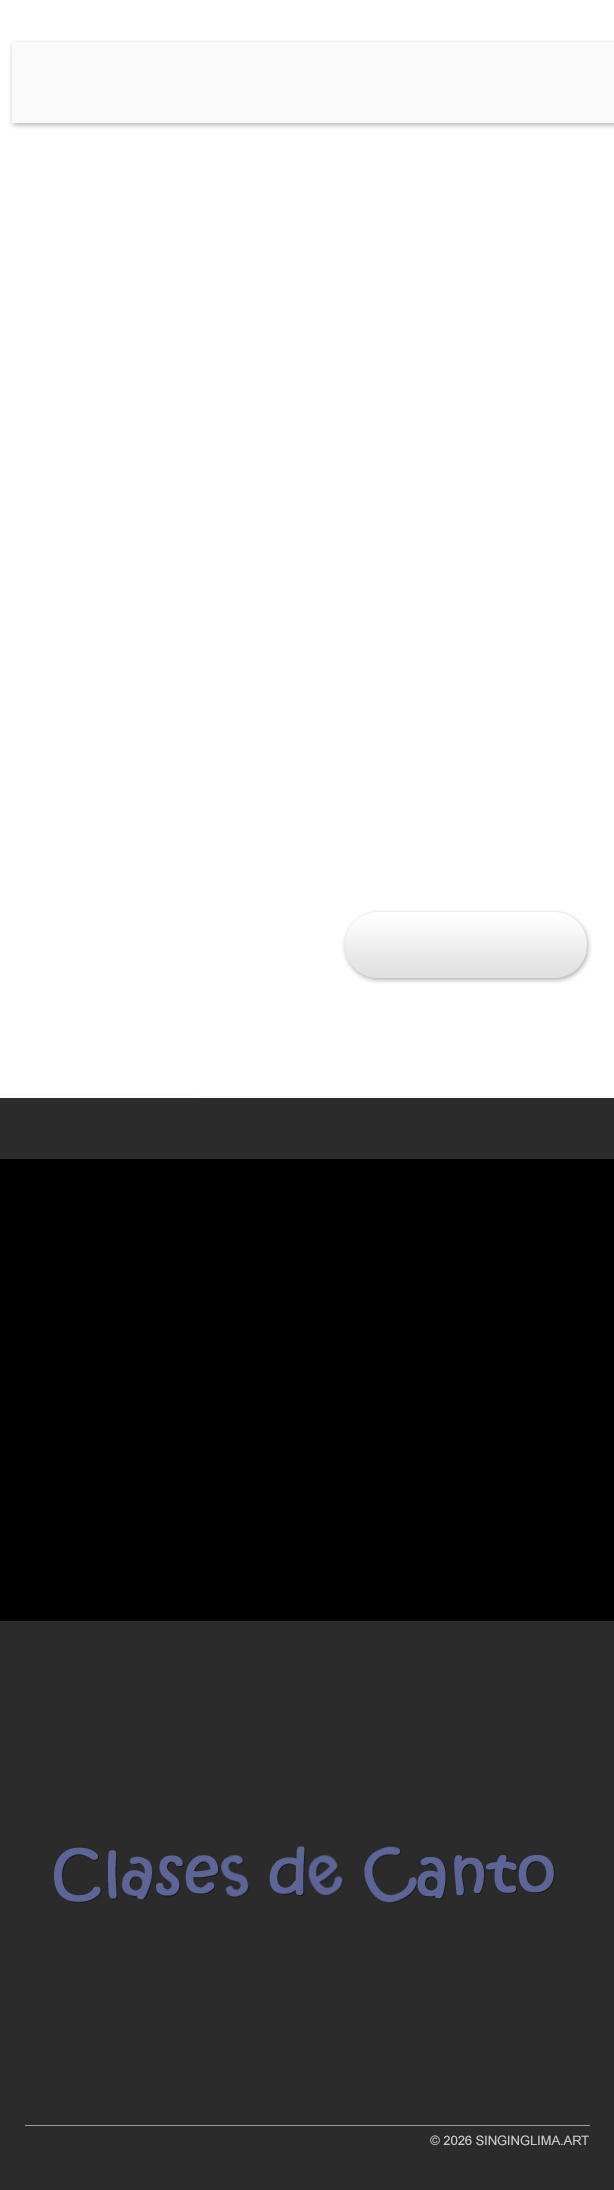
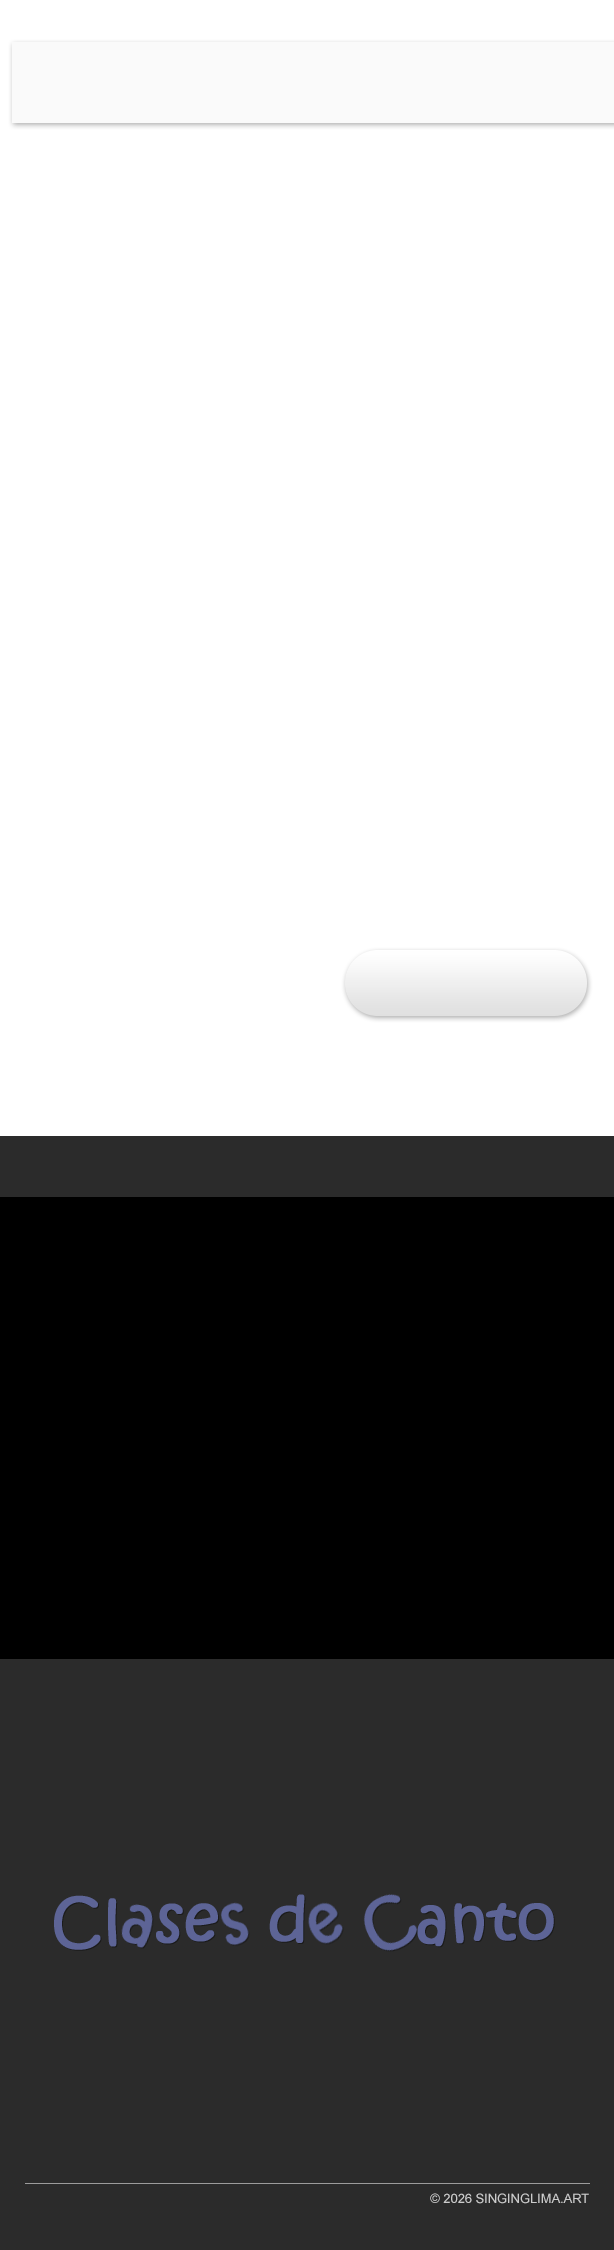
Add files via upload

diff --git a/index.html b/index.html
@@ -76,13 +76,13 @@ a {
 <link rel="canonical" href="https://singinglima.art">
 </head>
 <body>
-<table width="614" height="2190" border="0" align="center" cellpadding="0" cellspacing="0" background="webcgadm.png" style="background-repeat:no-repeat">
+<table width="614" height="2250" border="0" align="center" cellpadding="0" cellspacing="0" background="webcgadm.png" style="background-repeat:no-repeat">
   <tbody>
   <tr>
       <td height="132" colspan="3" align="left" valign="middle" style="padding-left:29px; padding-bottom:0px; padding-top:0px"><header><h1 style="line-height:20px; margin-top:34px; text-shadow: 1px 1px 2px #AAA;">Clases de Canto en Surco</h1></header></td>
     </tr>
     <tr>
-      <td height="779" colspan="3" align="left" valign="top" style="padding-left:31px; padding-right:31px; padding-top:0px; padding-bottom:0px; line-height:25px"><section><article><p style="margin-top:30px">Mucho Gusto! Me llamo Pablo Miyashiro, tengo 40 a&ntilde;os, soy m&uacute;sico y me dedico a la ense&ntilde;anza del canto. </p>
+      <td height="818" colspan="3" align="left" valign="top" style="padding-left:31px; padding-right:31px; padding-top:0px; padding-bottom:0px; line-height:27px"><section><article><p style="margin-top:33px">Mucho Gusto! Me llamo Pablo Miyashiro, tengo 40 a&ntilde;os, soy m&uacute;sico y me dedico a la ense&ntilde;anza del canto. </p>
         <p>En mis clases usted tendr&aacute; una gu&iacute;a m&aacute;s precisa para ayudarle a sacar el mejor sonido a su voz. Suelen encontrarse voces que sorprenden al estar escondidas tras malos h&aacute;bitos fonatorios. Trabajar&aacute; la interpretaci&oacute;n y la t&eacute;cnica vocal desde la base. Todo esto acelerar&aacute; su aprendizaje. </p>
         <p>Mis clases se complementan con la ense&ntilde;anza de la lectura musical; y si lo desea, cualquier tema relacionado con Teor&iacute;a Musical, Armon&iacute;a y Audio. </p>
         <p>Como dijo Madeleine Mansion: &quot;Cantar es un acto relativamente sencillo&quot;, complicarlo mucho puede llevar a un sonido que se aleja de lo natural. Las lecciones consisten en un trabajo que se debe de realizar para encontrar la impostaci&oacute;n y dominarla.</p>
@@ -112,13 +112,13 @@ a {
       <td height="40" colspan="3" align="center" valign="bottom" style="font-size:52px; padding-bottom:4px; user-select: none;"><span id="p1" style="color:#FFF; cursor:pointer" onClick="img(1);">&middot;</span> <span id="p2" style="color:#888; cursor:pointer" onClick="img(2);">&middot;</span></td>
     </tr>
     <tr>
-      <td height="401" colspan="3" align="center" valign="bottom"><a href="fa.html" style="font-size:19px; color:#999">Ver secci&oacute;n de preguntas frecuentes</a></td>
+      <td height="421" colspan="3" align="center" valign="bottom"><a href="fa.html" style="font-size:19px; color:#999">Ver secci&oacute;n de preguntas frecuentes</a></td>
     </tr>
     <tr>
-      <td height="86" colspan="3" align="center" valign="bottom" style="font-size: 15px; color: #FFF; padding-left:29px; padding-right:29px"><footer>NOTA: No siempre va a encontar este anuncio en Google por lo que le puede ser &uacute;til apuntar la direcci&oacute;n de este sitio (singinglima.art).</footer></td>
+      <td height="88" colspan="3" align="center" valign="bottom" style="font-size: 15px; color: #FFF; padding-left:29px; padding-right:29px"><footer>NOTA: No siempre va a encontar este anuncio en Google por lo que le puede ser &uacute;til apuntar la direcci&oacute;n de este sitio (singinglima.art).</footer></td>
     </tr>
     <tr>
-      <td height="81" colspan="3">&nbsp;</td>
+      <td height="82" colspan="3">&nbsp;</td>
     </tr>
   </tbody>
 </table>
